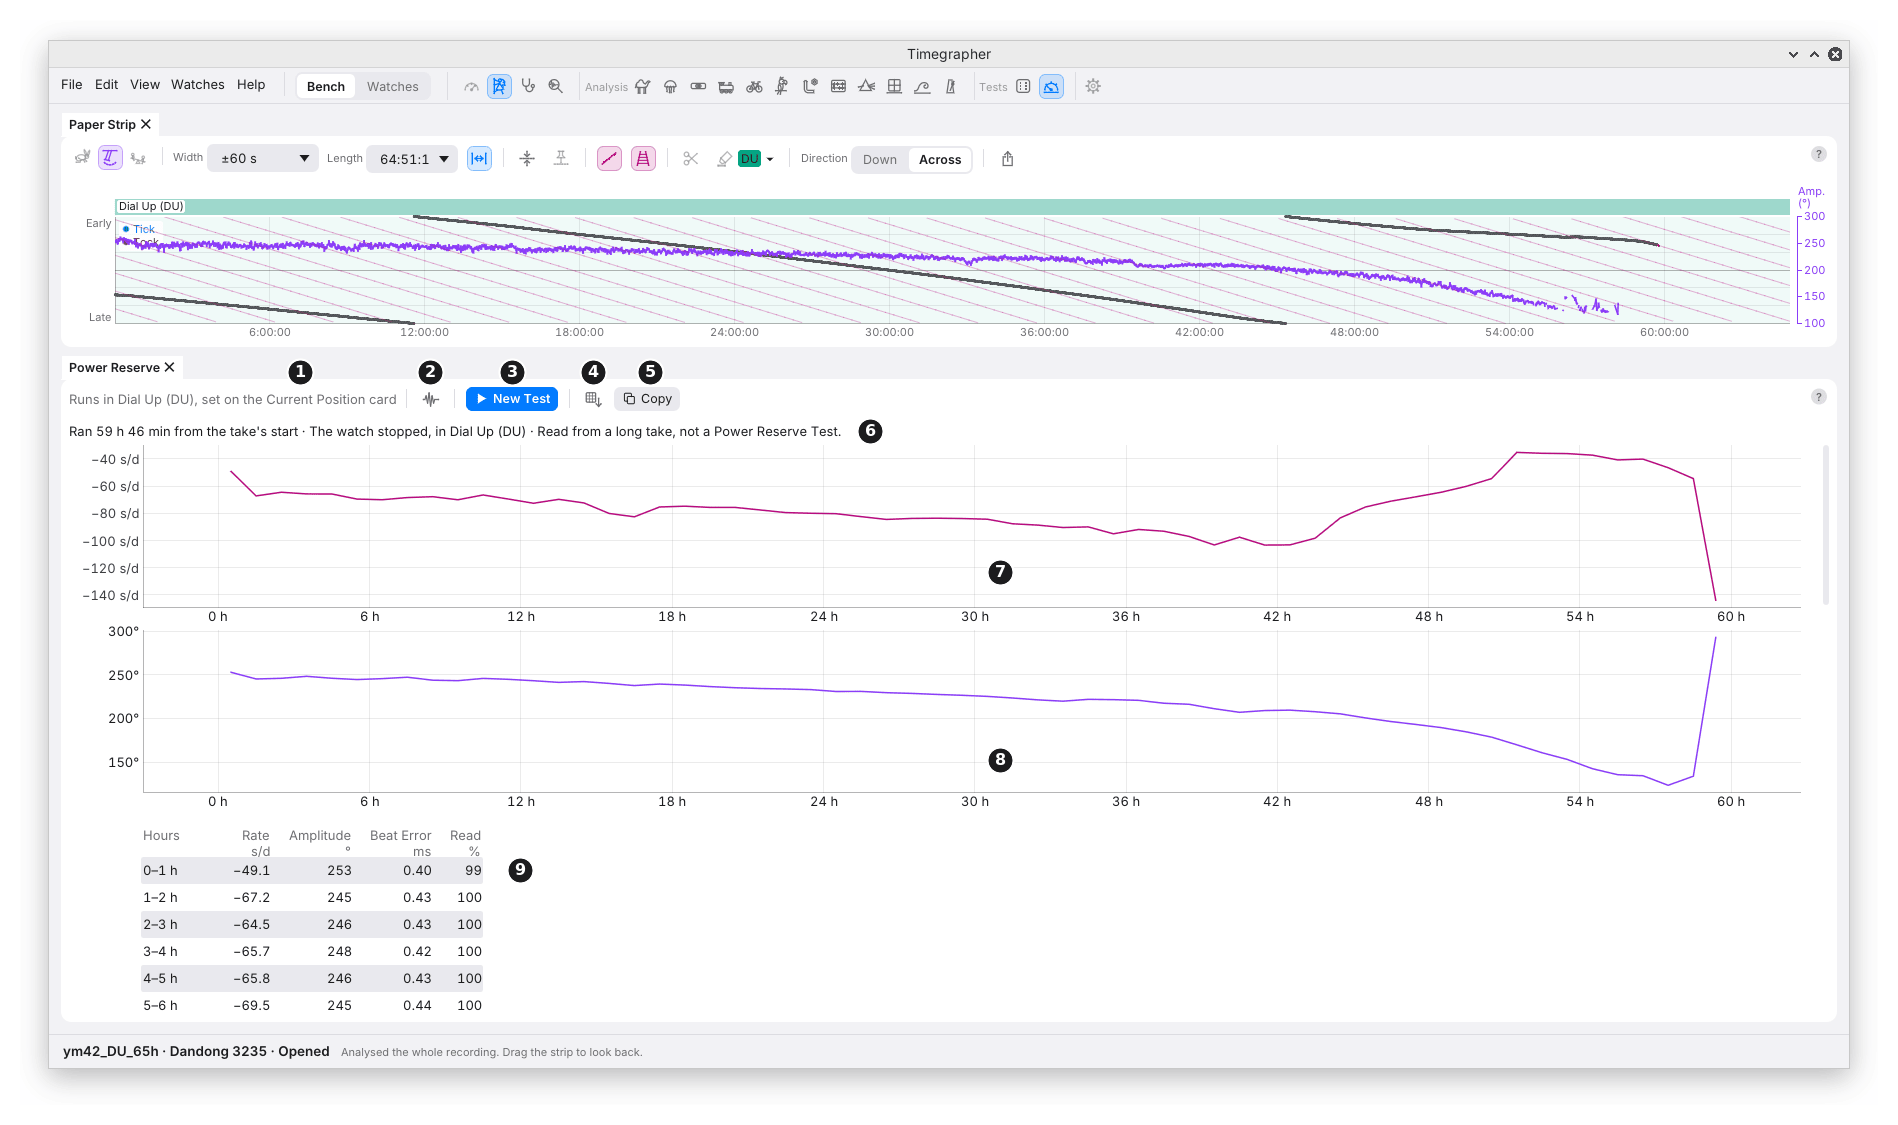
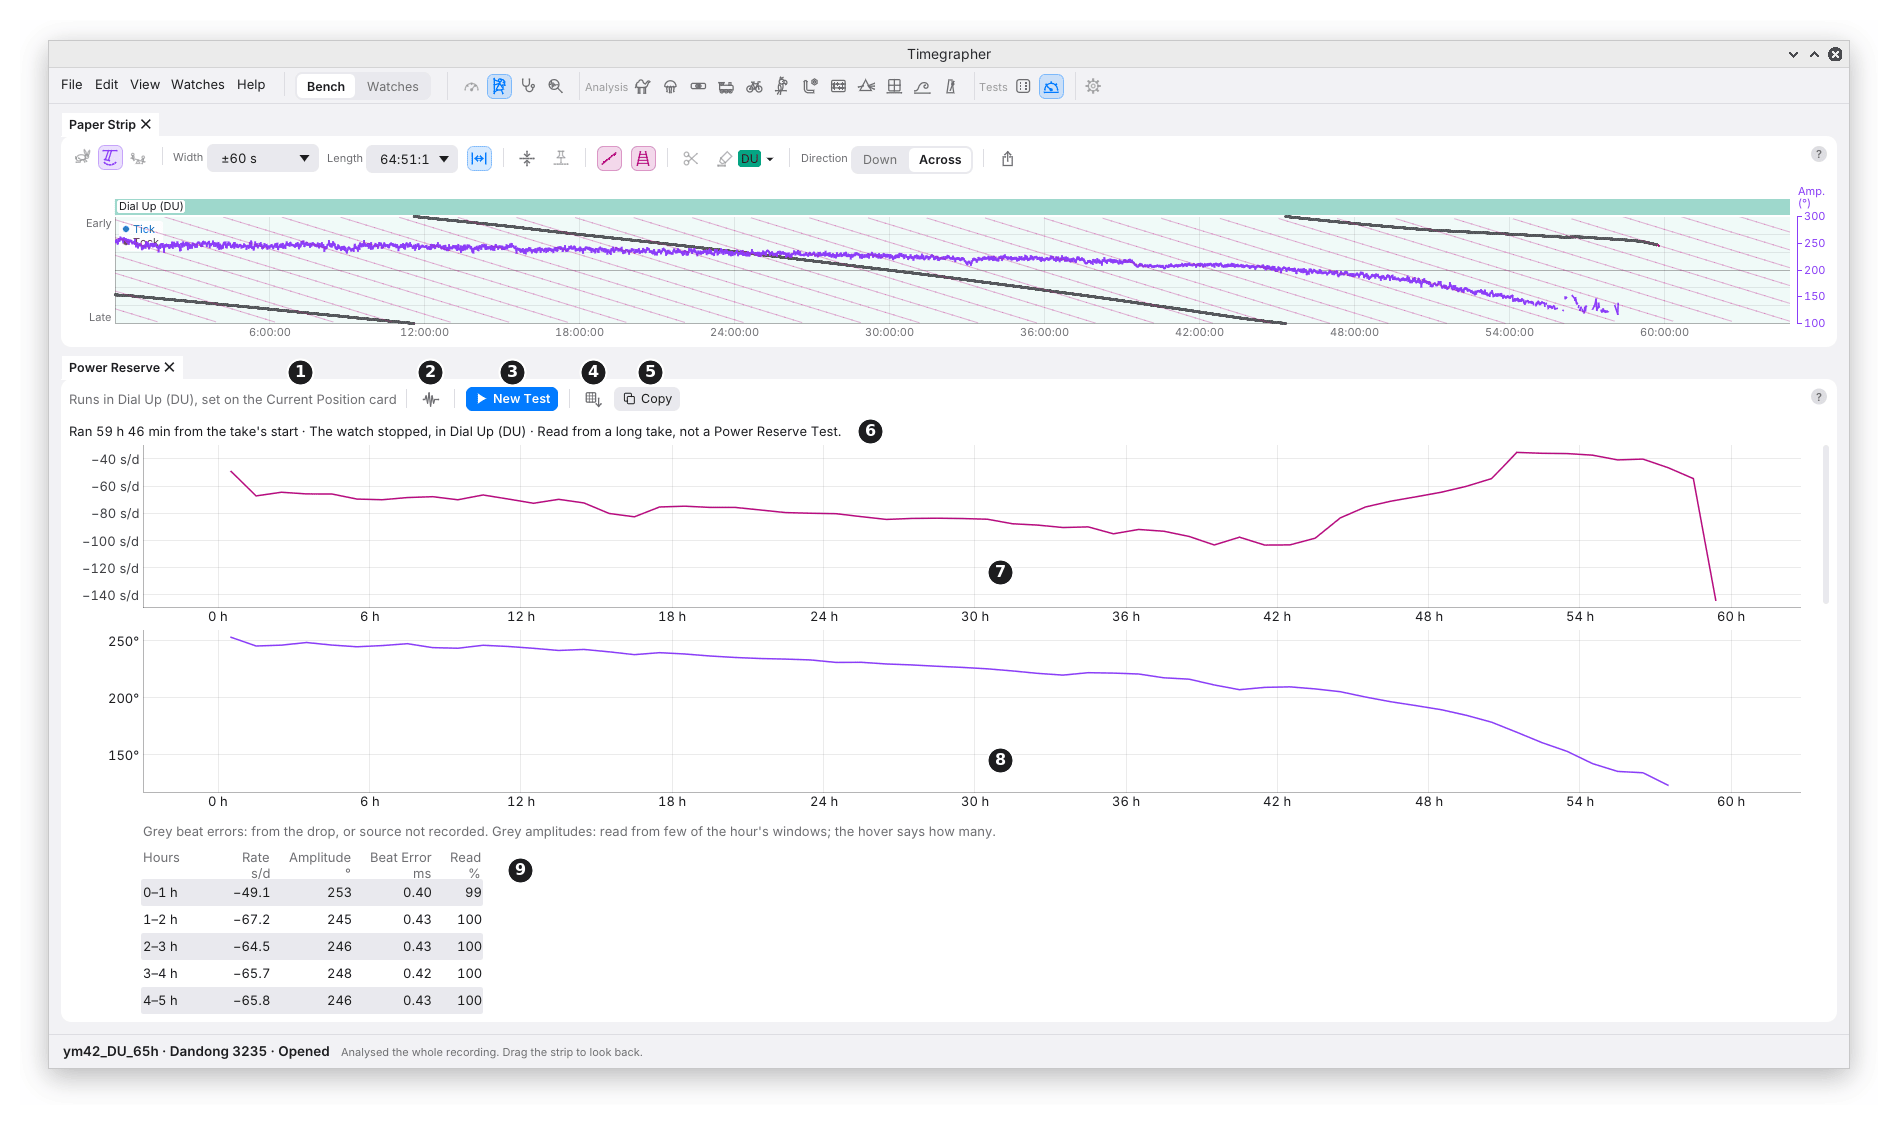
User guide: Power Reserve redrawn after the window floor (#1429)
The amplitude chart now stops before the last two hours, which are
withheld, and a second figure scrolls the hour table to its end to show
the grey and withheld amplitudes. The caption drops its note on the
false 290° point and says what grey and a dash mean.

Claude-Session: https://claude.ai/code/session_01QSxqxVf77FmFmJZGMCy8kd

diff --git a/docs/user-guide/21-power-reserve-test.md b/docs/user-guide/21-power-reserve-test.md
@@ -1,6 +1,6 @@
 # 21. Power Reserve Test
 
-![Power Reserve filled from a 60-hour take that ran until the watch stopped, marks 1 to 9](images/power-reserve.png)
+![Power Reserve filled from a 60-hour take that ran until the watch stopped, the Paper Strip above, marks 1 to 9](images/power-reserve.png)
 
 **What it shows:** how long the watch runs from full wind until it stops,
 in one position, and how its rate, amplitude and beat error change hour
@@ -67,9 +67,15 @@ Analysis Only picked.
 | 8 | The amplitude | The amplitude against the same hours. |
 | 9 | The hour table | Each hour: its rate (s/d), median amplitude (°), beat error (ms) from the unlock, and how much of the hour its whole 10 s readings cover (Read %). The last hour is as long as is left. |
 
-A beat error from the drop, where the unlock isn't found, or whose source
-wasn't recorded, is drawn grey, with a key over the table ("Grey beat
-errors: from the drop, or source not recorded."), and each beat error's hover names its source.
+Grey in the table marks a figure that stands on less than the rest, and
+the key over the table says so. A beat error from the drop, where the
+unlock isn't found, or whose source wasn't recorded, is grey, and its
+hover names its source. An amplitude read from under 60% of the hour's
+2 s windows is grey too, and its hover says how many ("read from 459 of
+1798 windows"). An amplitude read from under a tenth of them isn't given
+at all: the cell shows a dash, and the amplitude chart stops before that
+hour. A few windows are too few to stand for an hour; the figure they
+give can be far from the truth.
 Scrolled down, the table's titles stay at the top.
 
 While a test runs, about once a minute the hour in progress is measured
@@ -93,16 +99,31 @@ stand and recorded until it stopped: "Ran 59 h 46 min from the take's
 start · The watch stopped". The Paper Strip above it shows the whole
 take, the amplitude line falling to the right and the beats ending
 before the take does. Hour by hour, the amplitude falls from 253° in
-the first hour to about 210° at 42 hours, then faster, to under 130° in
-the last hours: the steady fall and the late drop of a mainspring
-letting down. The rate is −49 s/d in the first hour, near −65 s/d from
+the first hour to about 210° at 42 hours, then faster, to 124° in the
+57–58 h hour: the steady fall and the late drop of a mainspring letting
+down. The amplitude chart stops there; the table's last hours, below,
+say why. The rate is −49 s/d in the first hour, near −65 s/d from
 then to 12 hours, about −100 s/d at 42 hours, then climbs to about
 −40 s/d from 52 to 57 hours, and falls to −140 s/d in the last part
 hour. So this watch's rate moves by 60 s/d over its reserve: what it
 keeps on the wrist depends on how far down it is allowed to run.
-The amplitude's last point, near 290°, is not a rise: in the watch's
-last minutes its beats are too faint for the unlock to be found
-reliably, and that figure is wrong.
+
+![The hour table scrolled to the run's last hours, marks 1 to 3](images/power-reserve-end.png)
+
+| Mark | Part | What it shows |
+| --- | --- | --- |
+| 1 | The key | What grey means in each column. |
+| 2 | A grey amplitude | Read from under 60% of the hour's windows; the hover gives the count. |
+| 3 | A dash | An amplitude withheld: under a tenth of the hour's windows gave one. The beat error beside it is from the drop, so grey. |
+
+**Scrolled to its end,** the same table shows the watch's last hours.
+From 56 hours the beats grow faint, and the unlock that the amplitude is
+timed from is found in fewer of the hour's windows: 134° and 124° are
+grey. In the last two hours it is found in too few to give a figure,
+and the cells show a dash. The rate, timed from the whole beat, is still
+read: −54.4 s/d, then −144.0 s/d in the last part hour as the watch
+stops. Without the floor, those few windows gave an amplitude near 290°
+for the last hour, a rise that never happened.
 
 ## What to Look For
 
